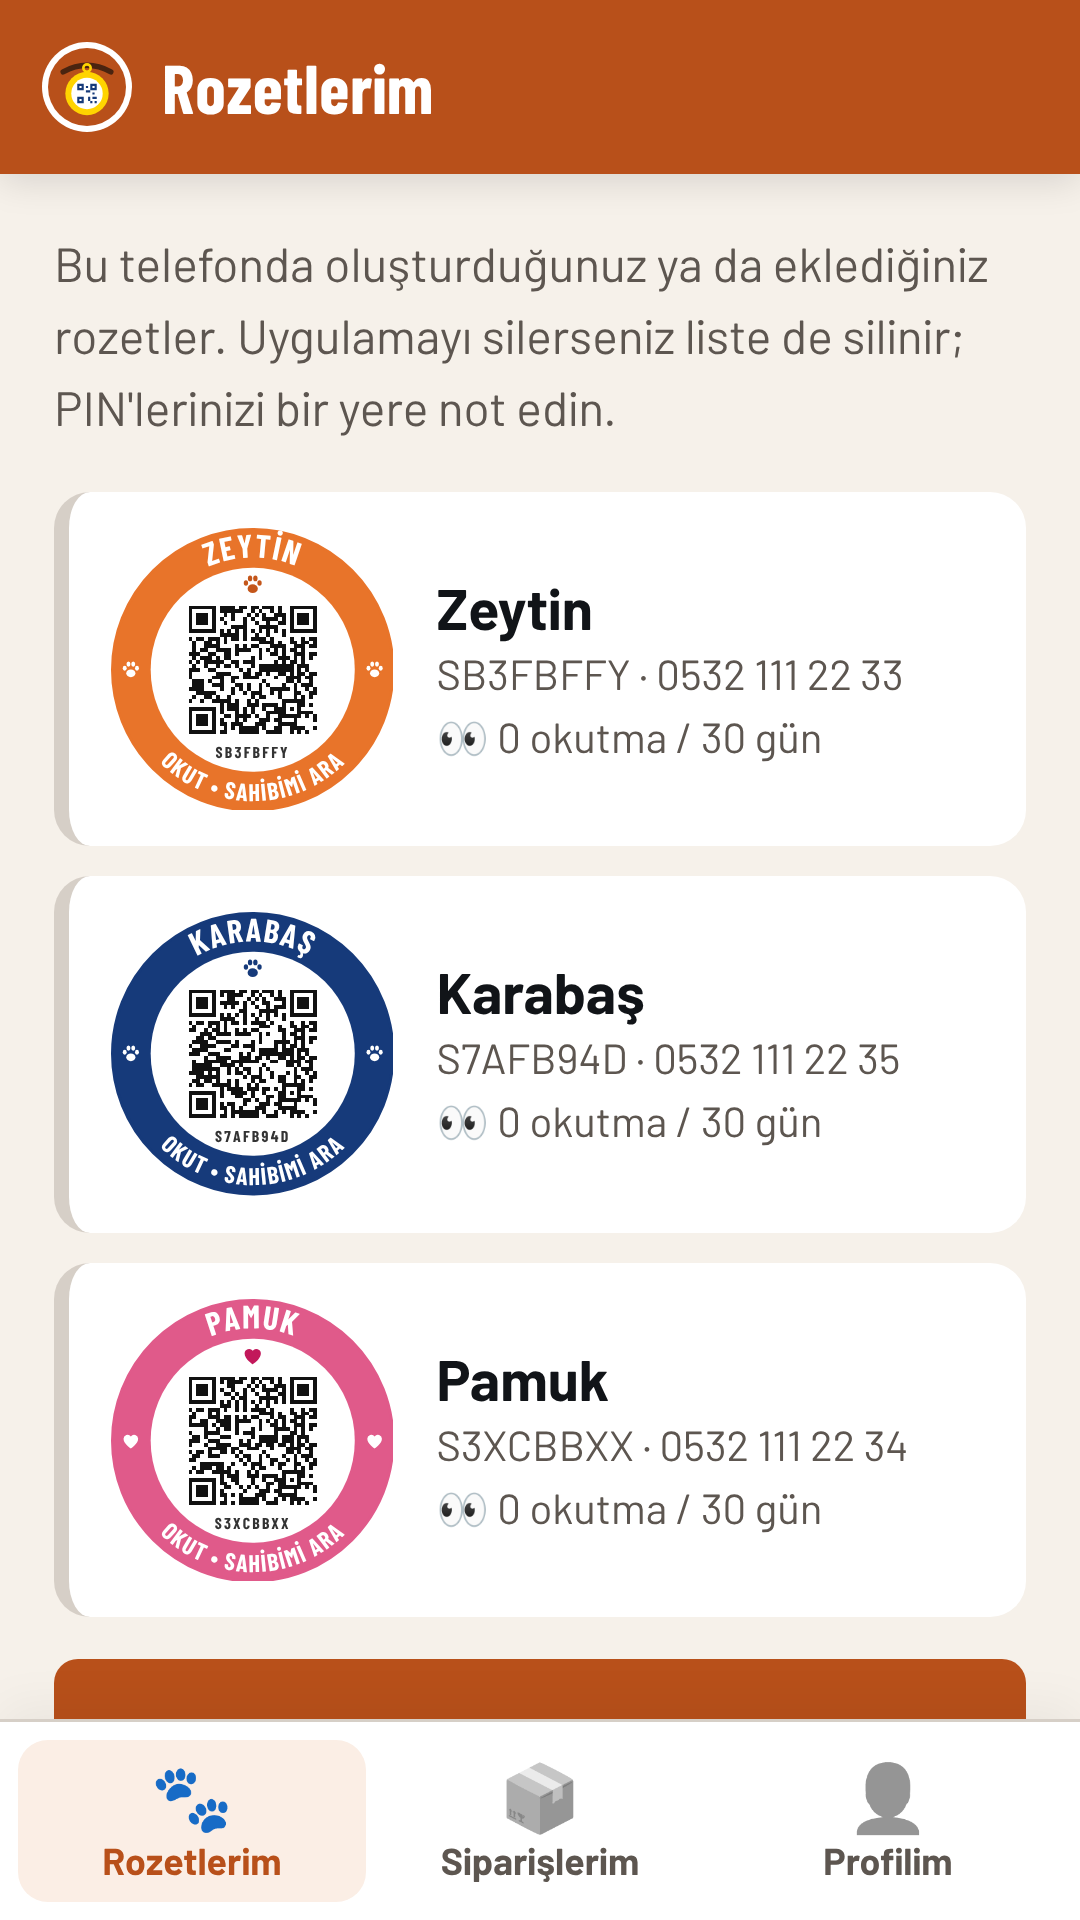
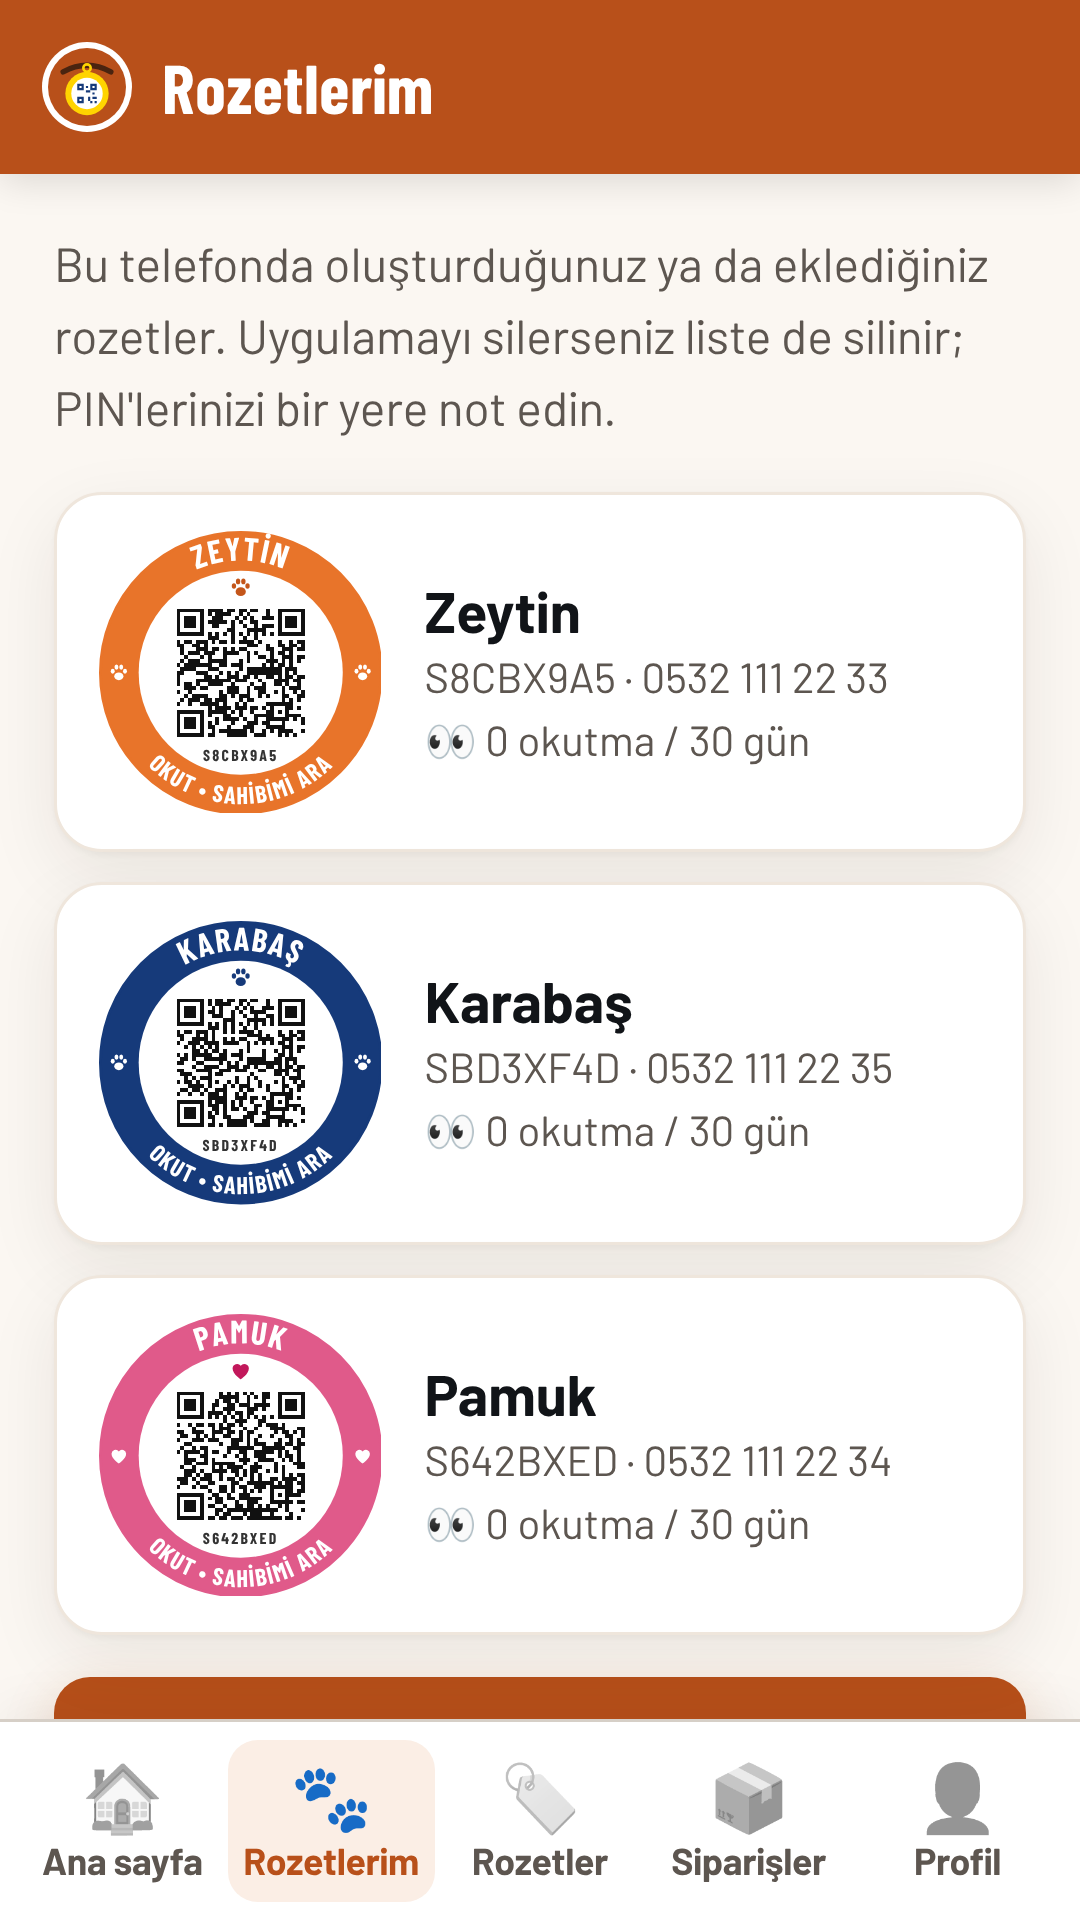
Uygulama site gibi sekmeli: Ana sayfa, Rozetlerim, Rozetler, Siparişler, Profil
- Sitenin ana sayfası ve Rozetler sayfası uygulamada sekme; Nasıl çalışır, SSS, Hazır rozet geri tuşlu alt sayfa
- Profil'e Nasıl çalışır, SSS, Hazır rozet kısayolları
- Play ekran görüntüleri yeni sekme çubuğuyla

Claude-Session: https://claude.ai/code/session_01ALvW45Kmmpq3Sujxg1sZBF

diff --git a/index.html b/index.html
@@ -171,6 +171,8 @@ body.has-tabbar{padding-bottom:calc(84px + env(safe-area-inset-bottom))}
 .appbar span{font-family:"Barlow Condensed","Barlow",sans-serif;font-weight:700;font-size:23px;letter-spacing:.01em;flex:1;min-width:0;overflow:hidden;text-overflow:ellipsis;white-space:nowrap}
 .appbar button{font:inherit;font-size:24px;line-height:1;color:#fff;background:#ffffff22;border:0;border-radius:50%;width:40px;height:40px;cursor:pointer;flex:none}
 .app-shell .back{display:none}
+.app-shell .hero-band{margin-top:-18px}
+.tabbar a{font-size:11.5px;letter-spacing:-.01em;white-space:nowrap}
 .tabbar{position:fixed;left:0;right:0;bottom:0;z-index:15;display:flex;background:#fff;border-top:1px solid var(--line);
   padding:6px 6px max(6px,env(safe-area-inset-bottom));box-shadow:0 -4px 16px #0000000d}
 .tabbar a{flex:1;display:flex;flex-direction:column;align-items:center;gap:2px;font-size:12.5px;font-weight:700;color:var(--muted);text-decoration:none;padding:6px 0;border-radius:10px}
@@ -393,9 +395,11 @@ input:focus,textarea:focus,select:focus{box-shadow:0 0 0 4px #b8501a1f}
 <main id="app"><p>Yükleniyor…</p></main>
 <footer class="site-foot" id="sitefoot" hidden></footer>
 <nav class="tabbar" id="tabbar" hidden aria-label="Ana menü">
+  <a href="#" data-tab="home"><span aria-hidden="true">🏠</span><span>Ana sayfa</span></a>
   <a href="#kunyelerim" data-tab="tags"><span aria-hidden="true">🐾</span><span>Rozetlerim</span></a>
-  <a href="#siparislerim" data-tab="orders"><span aria-hidden="true">📦</span><span>Siparişlerim</span></a>
-  <a href="#profil" data-tab="profile"><span aria-hidden="true">👤</span><span>Profilim</span></a>
+  <a href="#urunler" data-tab="shop"><span aria-hidden="true">🏷</span><span>Rozetler</span></a>
+  <a href="#siparislerim" data-tab="orders"><span aria-hidden="true">📦</span><span>Siparişler</span></a>
+  <a href="#profil" data-tab="profile"><span aria-hidden="true">👤</span><span>Profil</span></a>
 </nav>
 
 <script>
@@ -1114,17 +1118,6 @@ const designChips = sel => `<div class="designs" role="radiogroup" aria-label="T
   `<button type="button" role="radio" aria-checked="${k === sel}" data-d="${k}" class="${k === sel ? "on" : ""}"><i style="background:${d.ring}"></i>${esc(d.name)}</button>`).join("")}</div>`;
 
 // ---------------------------------------------------------------- uygulama: karşılama, siparişlerim, profilim
-function showAppWelcome() {
-  show(`
-    <div class="showcase" style="margin:6px 0 4px">${showcaseHtml()}</div>
-    <h1 style="text-align:center">Tasmasındaki QR rozet, onu size geri getirsin</h1>
-    <p style="text-align:center">Bulan kişi rozeti telefonuyla okutur; evcil hayvanınızın adını ve notunuzu görür, sizi tek dokunuşla arar ya da konumunu gönderir.</p>
-    <a class="btn" href="#olustur">Rozetimi oluştur</a>
-    <a class="btn ghost" href="#kunyelerim/ekle">Elimdeki rozeti ekle (kod ve PIN)</a>
-    <button class="btn ghost" type="button" id="replay">▶ Nasıl çalışır?</button>`, "mid");
-  document.getElementById("replay").onclick = openIntro;
-}
-
 const orderCardsHtml = orders => `<div class="cards">${orders.map(o => `
   <a class="mine" href="#odeme/${encodeURIComponent(o.code)}" style="grid-template-columns:1fr">
     <div><b>${esc(o.code)} · ${esc(o.amount)} TL</b>
@@ -1185,7 +1178,10 @@ function showProfile(saved = false) {
     </div>` : ""}
     <h2>Uygulama</h2>
     <div class="settings">
-      <button type="button" id="replay">▶ Nasıl çalışır?</button>
+      <button type="button" id="replay">▶ Tanıtımı izle</button>
+      <a href="#nasil">📖 Nasıl çalışır</a>
+      <a href="#sss">❓ Sık sorulanlar</a>
+      <a href="#talep">📝 Hazır rozet iste</a>
       <button type="button" id="share">👋 Arkadaşına öner</button>
       <a href="${IG_URL}" target="_blank" rel="noopener">📷 Instagram'da takip edin · @tasmaqr</a>
       <a href="${esc(SITE_URL)}">🌐 Web sitesi</a>
@@ -2743,11 +2739,14 @@ async function route() {
   if (APP) {
     if (page === "siparislerim") { setChrome({kind: "app", tab: "orders", title: "Siparişlerim"}); return showMyOrders(); }
     if (page === "profil") { setChrome({kind: "app", tab: "profile", title: "Profilim"}); return showProfile(); }
-    if (!store.get("introSeen", false)) openIntro();
-    const has = myTags().length;
-    setChrome({kind: "app", tab: "tags", title: has || page === "kunyelerim" ? "Rozetlerim" : "Tasma QR"});
-    if (page === "kunyelerim" && arg === "ekle") return showMine("", true);
-    return has || page === "kunyelerim" ? showMine() : showAppWelcome();
+    // sitedeki sayfalar uygulamada sekme (Ana sayfa, Rozetler) ya da geri tuşlu alt sayfa (Nasıl çalışır, SSS, Hazır rozet)
+    if (page === "urunler") { setChrome({kind: "app", tab: "shop", title: "Rozetler"}); return showProducts(); }
+    if (page === "nasil") { sub("Nasıl çalışır"); return showHow(); }
+    if (page === "sss") { sub("Sık sorulanlar"); return showFaq(); }
+    if (page === "talep") { sub("Hazır rozet"); return showRequest(); }
+    if (page === "kunyelerim") { setChrome({kind: "app", tab: "tags", title: "Rozetlerim"}); return showMine("", arg === "ekle"); }
+    setChrome({kind: "app", tab: "home", title: "Tasma QR"});  // ilk girişte tanıtım showHome içinde açılır
+    return showHome();
   }
   const pages = {"": [showHome, "Tasma QR"], nasil: [showHow, "Nasıl çalışır"], urunler: [showProducts, "Rozetler"], talep: [showRequest, "Hazır rozet"],
     sss: [showFaq, "Sık sorulanlar"], kunyelerim: [() => showMine("", arg === "ekle"), "Rozetlerim"]};

diff --git a/README.md b/README.md
@@ -4,7 +4,7 @@ Evcil hayvanların tasmasına künye gibi takılan QR rozet. Rozeti okutan kişi
 
 ## Özellikler
 
-- **Sayfalar**: sitede üst menü (Ana sayfa · Nasıl çalışır · Rozetler · Hazır rozet · SSS · Rozetlerim) ve alt bölüm; uygulamada üst bar ve alt sekmeler (Rozetlerim · Siparişlerim · Profilim)
+- **Sayfalar**: sitede üst menü (Ana sayfa · Nasıl çalışır · Rozetler · Hazır rozet · SSS · Rozetlerim) ve alt bölüm; uygulamada üst bar ve 5 alt sekme (Ana sayfa · Rozetlerim · Rozetler · Siparişler · Profil); Nasıl çalışır, SSS ve Hazır rozet uygulamada da alt sayfa
 - **Tasarım kilidi**: tasarım rozet oluşturulurken seçilir, ücretsiz baskıda değiştirilemez; yeni tasarım rozet siparişinde seçilir ve ödeme onaylanınca rozete işlenir
 - **İlk giriş tanıtımı**: reels gibi yukarı kaydırılan 5 tam ekran slayt (ana sayfadaki “30 saniyede tanıyın” ile tekrar izlenir)
 - **Sahip girişi PIN ile**: QR okutulunca “Bilgileri düzenleyin” ve ilk bağlama önce yalnızca PIN sorar; bilgiler ve form PIN doğrulandıktan sonra açılır. Tüm PIN denemeleri (rozet listesi dahil) 5 yanlışta 15 dakika kilitlenir

diff --git a/android/GOOGLE_PLAY.md b/android/GOOGLE_PLAY.md
@@ -19,7 +19,7 @@ Veri güvenliği formu cevapları ve mağaza metinleri. Görseller `android/stor
   - Açılışta başlama: bildirim kontrolü telefon yeniden başlayınca da sürsün diye
 
   Konum, kamera, rehber ve dosya izni yok. Hiçbiri Play'de ek beyan istemez.
-- **Uygulama düzeni (Araç QR gibi):** üst bar (geri tuşu + sayfa adı) ve alt sekmeler: **Rozetlerim · Siparişlerim · Profilim**.
+- **Uygulama düzeni (site gibi):** üst bar (geri tuşu + sayfa adı) ve 5 alt sekme: **Ana sayfa · Rozetlerim · Rozetler · Siparişler · Profil**; Nasıl çalışır, SSS ve Hazır rozet alt sayfa.
   Profilim'de teslimat bilgileri, bildirimler, "Arkadaşına öner", gizlilik politikası ve "Tüm verilerimi sil" var.
 - **Arkadaşına öner** Play sürümünde Play Store bağlantısını paylaşır (GitHub APK bağlantısı Play sürümünde hiç görünmez).
 - **Ödeme:** Rozet fiziksel bir ürün olduğu için havale/EFT ile satılabilir; Play Faturalandırma zorunlu değildir
